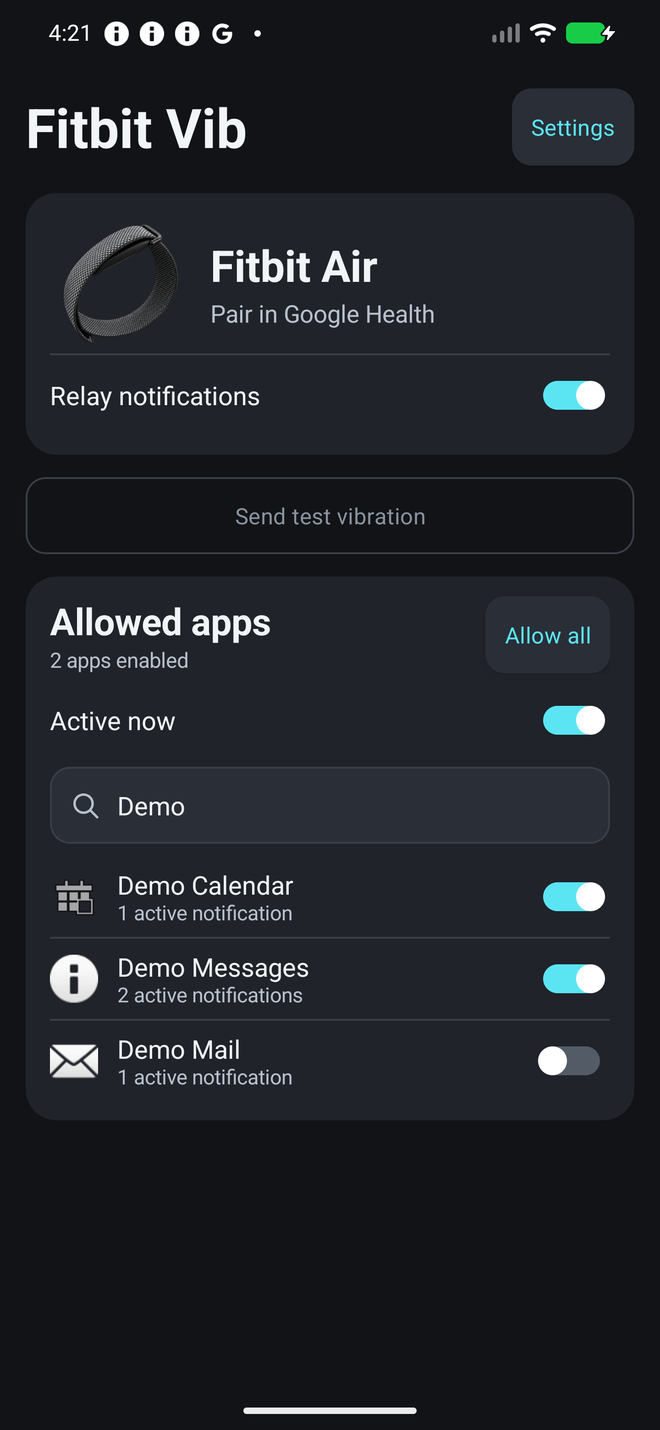
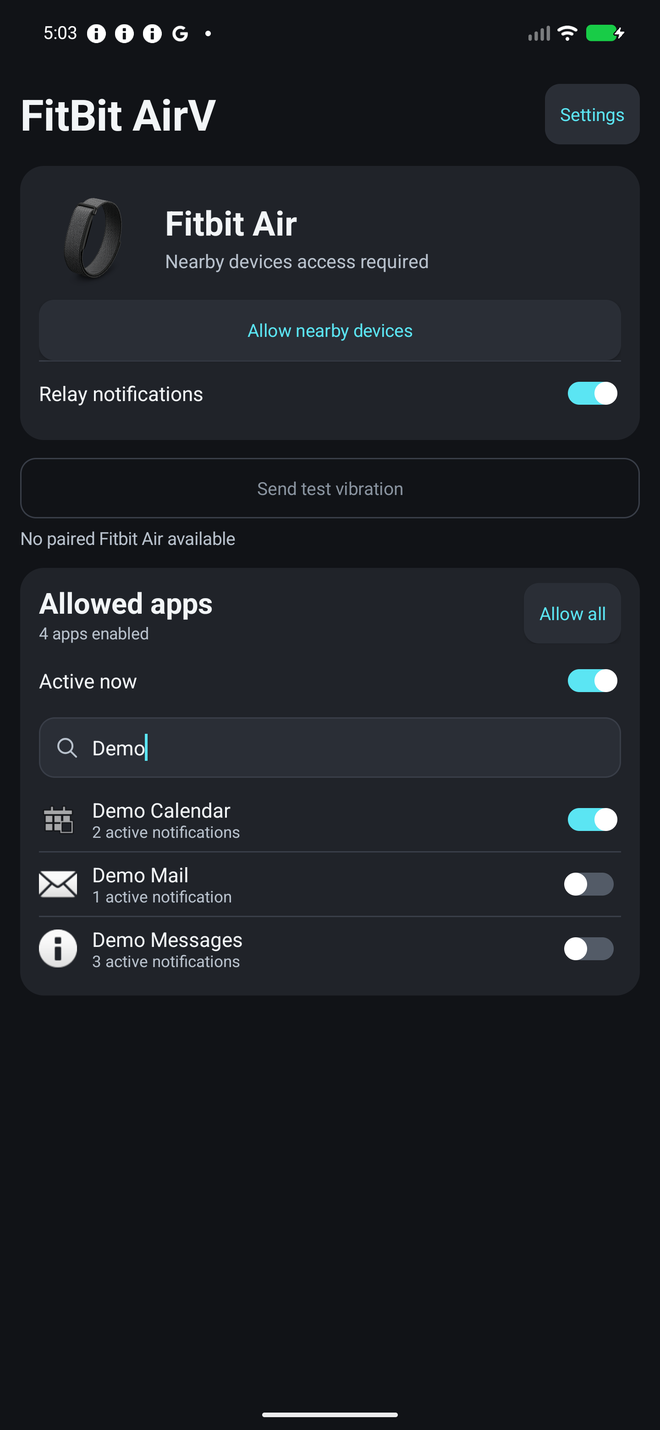
Rename the app to FitBit AirV and replace tracker artwork

diff --git a/app/src/main/kotlin/dev/wristrelay/BackgroundSettings.kt b/app/src/main/kotlin/dev/wristrelay/BackgroundSettings.kt
@@ -19,12 +19,12 @@ internal class BackgroundOptions(private val activity: Activity, private val ui:
     val view = ui.column().apply {
         addView(ui.label("Notification access", 18, bold = true).asHeading())
         addView(notificationStatus, ui.stacked(3))
-        addView(ui.label("Lets Fitbit Vib recognize alerts from the apps you allow and relay them to your band.", 14, ui.muted), ui.stacked(6))
+        addView(ui.label(activity.getString(R.string.notification_access_description, activity.getText(R.string.app_name)), 14, ui.muted), ui.stacked(6))
         addView(notificationAction, ui.stacked(8))
         addView(View(activity), LinearLayout.LayoutParams(1, ui.dp(14)))
         ui.addDivider(this)
         addView(ui.label("Battery optimization", 18, bold = true).asHeading(), ui.stacked(14))
-        addView(ui.label("If alerts are delayed with the screen off, open Battery or Battery usage in Android’s app info for Fitbit Vib.", 14, ui.muted), ui.stacked(6))
+        addView(ui.label(activity.getString(R.string.battery_settings_description, activity.getText(R.string.app_name)), 14, ui.muted), ui.stacked(6))
         addView(batteryAction, ui.stacked(8))
     }
 

diff --git a/README.md b/README.md
@@ -1,11 +1,11 @@
 <div align="center">
-  <img src="docs/images/icon.webp" alt="Fitbit Vib cyan wristband icon" width="88">
-  <h1>Fitbit Vib</h1>
+  <img src="docs/images/icon.webp" alt="FitBit AirV cyan wristband icon" width="88">
+  <h1>FitBit AirV</h1>
   <p>Selected Android notifications, felt on your Fitbit Air.</p>
   <p><a href="https://github.com/error0327/fitbit-vib/releases/latest"><strong>Download the latest APK</strong></a></p>
 </div>
 
-Fitbit Vib is an independent Android companion for the screenless Fitbit Air. Choose which apps can make your band buzz while Google Health continues to handle pairing, health sync, alarms, and tracker settings.
+FitBit AirV is an independent Android companion for the screenless Fitbit Air. Choose which apps can make your band buzz while Google Health continues to handle pairing, health sync, alarms, and tracker settings.
 
 <table align="center">
   <tr>
@@ -14,9 +14,9 @@ Fitbit Vib is an independent Android companion for the screenless Fitbit Air. Ch
     <th>Set up background alerts</th>
   </tr>
   <tr>
-    <td><img src="docs/images/allowlist.png" alt="Fitbit Vib with the main relay switch, test vibration button, and per-app allowlist" width="230"></td>
+    <td><img src="docs/images/allowlist.png" alt="FitBit AirV with the main relay switch, test vibration button, and per-app allowlist" width="230"></td>
     <td><img src="docs/images/active-now.png" alt="Active now showing sample apps with current notifications and individual relay switches" width="230"></td>
-    <td><img src="docs/images/background-settings.png" alt="Fitbit Vib Settings with notification access, battery optimization, and About" width="230"></td>
+    <td><img src="docs/images/background-settings.png" alt="FitBit AirV Settings with notification access, battery optimization, and About" width="230"></td>
   </tr>
 </table>
 
@@ -27,18 +27,18 @@ Screenshots use an Android emulator with sample notifications.
 You need Android **12L (API 32) or later**, Bluetooth, and **one Fitbit Air** already paired to that phone in Google Health.
 
 1. Download the signed APK from [GitHub Releases](https://github.com/error0327/fitbit-vib/releases/latest) and open it on Android.
-2. Open Fitbit Vib and allow **Nearby devices**.
-3. In the setup popup or **Settings**, enable **Notification access**. If Android restricts listener access for a sideloaded app, open Fitbit Vib's Android **App info** and check the overflow menu for **Allow restricted settings**.
-4. If background alerts are delayed, tap **Open Android battery settings** in the setup popup or in **Settings**. This opens Android’s **App info** page for Fitbit Vib. Open **Battery** or **Battery usage** to manage background activity.
+2. Open FitBit AirV and allow **Nearby devices**.
+3. In the setup popup or **Settings**, enable **Notification access**. If Android restricts listener access for a sideloaded app, open FitBit AirV's Android **App info** and check the overflow menu for **Allow restricted settings**.
+4. If background alerts are delayed, tap **Open Android battery settings** in the setup popup or in **Settings**. This opens Android’s **App info** page for FitBit AirV. Open **Battery** or **Battery usage** to manage background activity.
 5. Tap **Send test vibration**, then switch on the apps you want under **Allowed apps**. Use **Active now** to review apps with current notifications and change their switches.
 
 The allowlist starts empty. **Relay notifications** pauses automatic alerts while keeping your app choices. **Allow all** enables every app in the regular list, including apps outside the active search.
 
 ## How it works
 
-- Fitbit Vib checks the source app and basic Android notification flags. Notification text stays unread. The APK has no internet permission, and your allowlist stays on your phone.
+- FitBit AirV checks the source app and basic Android notification flags. Notification text stays unread. The APK has no internet permission, and your allowlist stays on your phone.
 - The app sends a short pulse over the tracker’s Bluetooth connection using the intensity set on the Fitbit Air. It reads back the intensity after the write.
-- The tracker shares its connection with Google Health. Fitbit Vib waits for a quiet period and can skip an alert if the tracker is busy or unavailable. Notification bursts can be combined, and stale requests expire.
+- The tracker shares its connection with Google Health. FitBit AirV waits for a quiet period and can skip an alert if the tracker is busy or unavailable. Notification bursts can be combined, and stale requests expire.
 
 Keep vibration enabled on the tracker. If a test fails while Google Health is syncing, retry once the sync finishes. The first public release was built and tested on an emulator. Phone and tracker combinations beyond the development setup are still unverified.
 
@@ -61,7 +61,7 @@ The debug APK is at `app/build/outputs/apk/debug/app-debug.apk`. If you already 
 ## Credits
 
 - Android Bluetooth transport and native libraries from [fitbit-air at 05273a3](https://github.com/ThoreKoritzius/fitbit-air/tree/05273a39f5c480a5dc45700f39f80e00cc48c2c5). Android channel shims adapted from [Air Signals at 2ddaa52](https://github.com/yashsharan0805/air-signals/tree/2ddaa5210362cca3e092b6c51e94eba4fa65ef07).
-- The tracker image is a background-removed adaptation of [Google Fitbit Air - 1.jpg](https://commons.wikimedia.org/wiki/File:Google_Fitbit_Air_-_1.jpg) by Kyu3a, made available under [CC BY-SA 4.0](https://creativecommons.org/licenses/by-sa/4.0/).
+- The Obsidian tracker image comes from the [Google Store](https://store.google.com/us/config/google_fitbit_air?hl=en-US).
 - Third-party licenses and notices are [included in the source and APK](app/src/main/assets/licenses).
 
-Fitbit Vib is an independent project. Fitbit and Google Health are names of Google products.
+FitBit AirV is an independent project. Fitbit and Google Health are names of Google products.
